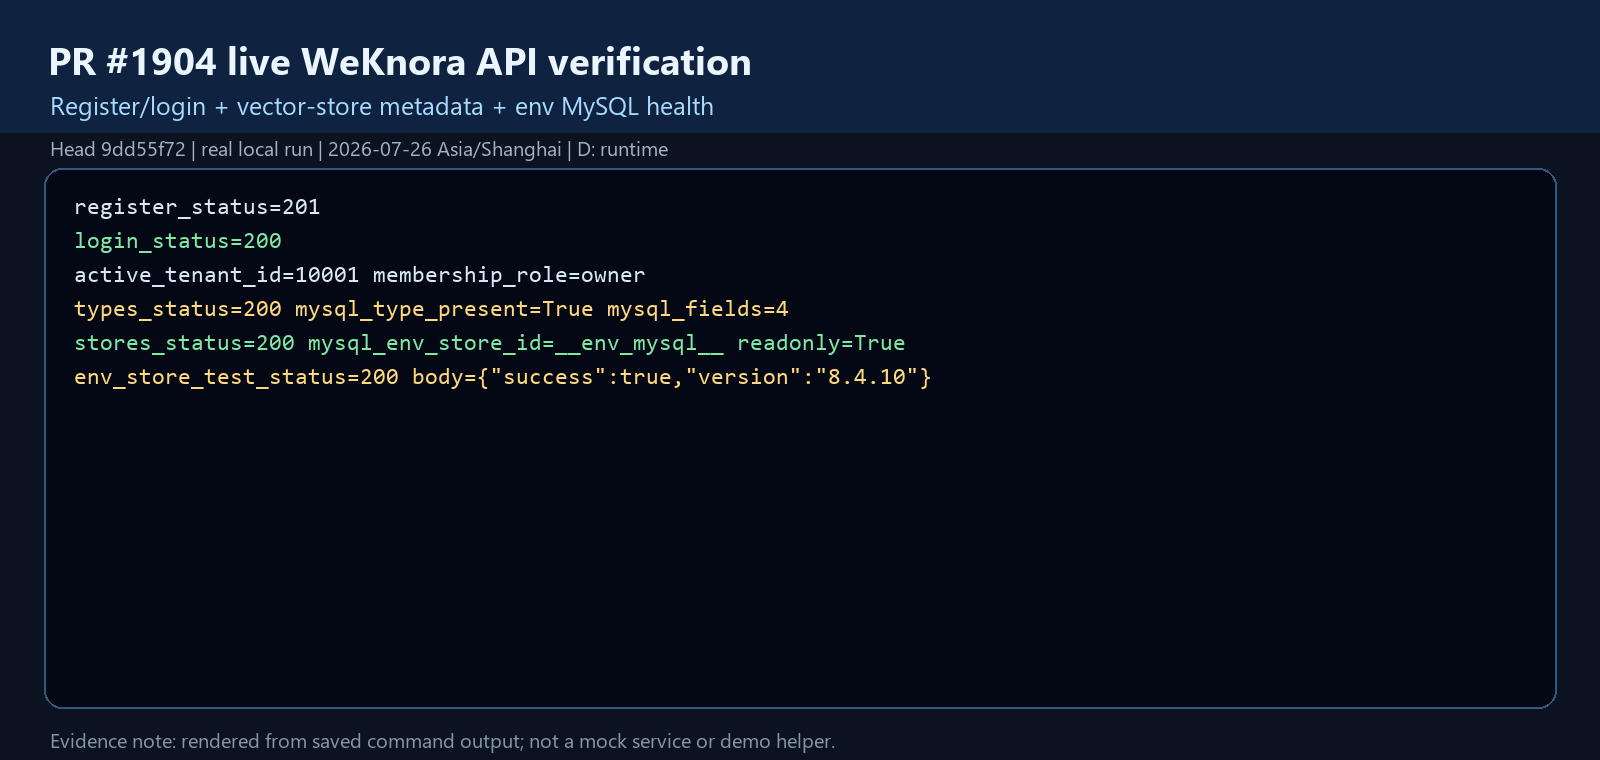
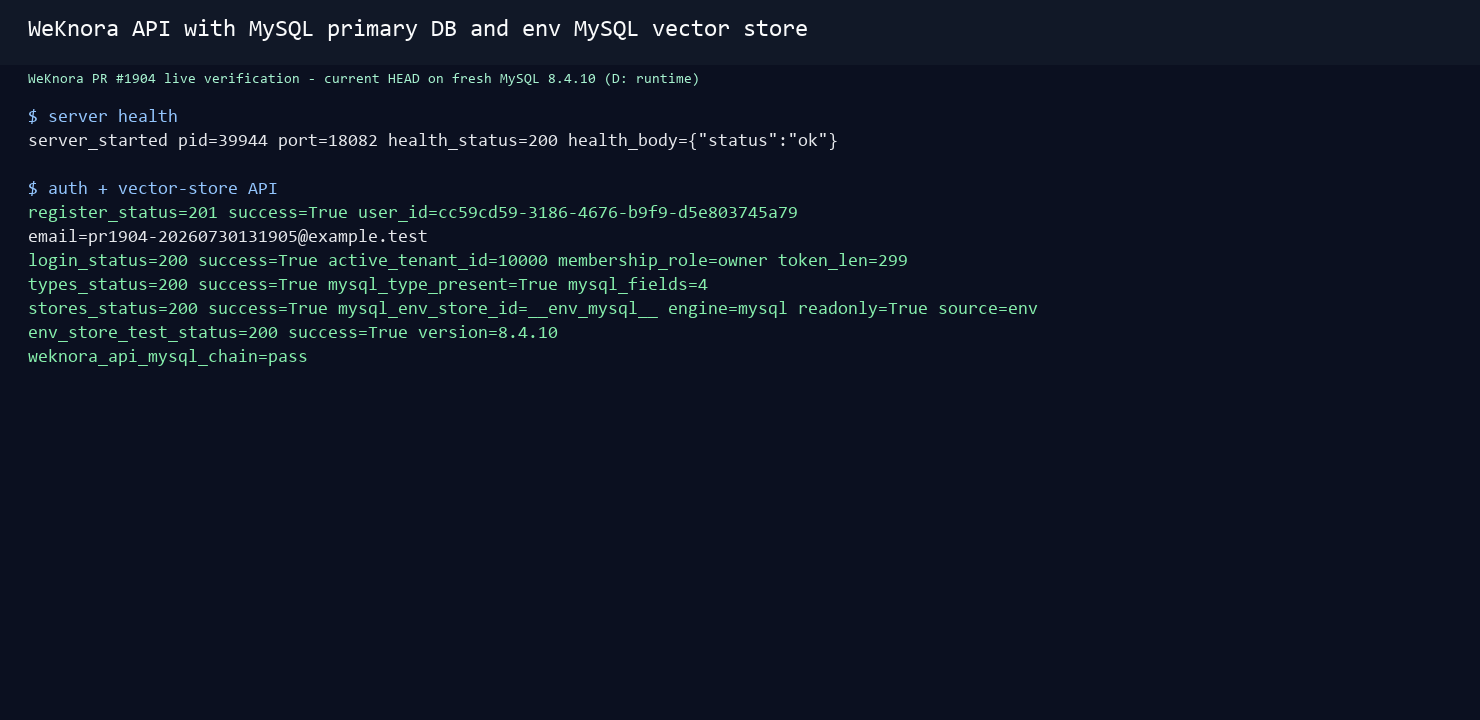
docs(pr1904): refresh live MySQL evidence

diff --git a/docs/pr-1904-evidence/README.md b/docs/pr-1904-evidence/README.md
@@ -1,23 +1,18 @@
 # PR #1904 live verification evidence
 
-Generated on 2026-07-26 from a real local run of PR head
-`9dd55f72366d09bda9026c824b590c2fcefced43`.
+Generated from a fresh D: runtime on 2026-07-30 for WeKnora PR #1904.
 
-Environment:
+- Implementation HEAD: 231d02cc61a82668f654c6187ea6dea278e5537e
+- Upstream main used for verification: cc846d8e2947300d38f681edff4b2c1a684b17f1
+- MySQL runtime: official MySQL 8.4.10 Windows package, initialized under D:\agent\runtime\...
+- Server runtime: WeKnora cmd/server built from the implementation HEAD and started with DB_DRIVER=mysql and RETRIEVE_DRIVER=mysql
 
-- Official MySQL Community Server 8.4.10 Windows ZIP, run locally on D:.
-- WeKnora server binary built from the PR branch.
-- MySQL primary database and MySQL retriever/vector-store paths verified with
-  real HTTP and database calls.
+## Assets
 
-Files:
+- pr-1904-live-verification.gif - short visual summary of the live checks
+- 01-mysql-migration-primary-db.png - migration up/down/up, app DB migration, primary DB write/read, JSON prefix repository semantics
+- 02-mysql-retriever.png - MySQL retriever JSON embedding, cosine, FULLTEXT, TopK/exclude/delete chain
+- 03-weknora-api.png - register/login/vector-store types/env store health through the real WeKnora API
+- 04-test-matrix.png - final Go test matrix and diff check
 
-- `01-mysql-migration-primary-db.png` - rendered screenshot of migration
-  up/down/up and primary DB read/write output.
-- `02-mysql-retriever.png` - rendered screenshot of MySQL retriever output.
-- `03-weknora-api.png` - rendered screenshot of WeKnora API output.
-- `04-test-matrix.png` - rendered screenshot of the final local test matrix.
-- `pr-1904-live-verification.gif` - short slideshow of the same real outputs.
-- `*.txt` - raw command output backing the rendered images.
-
-These are evidence renderings from command output, not mocked service responses.
+The .txt files beside the images contain the underlying command output used to render these screenshots.
